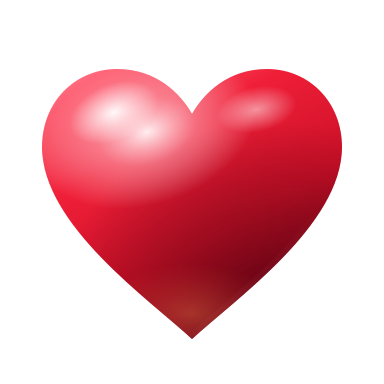
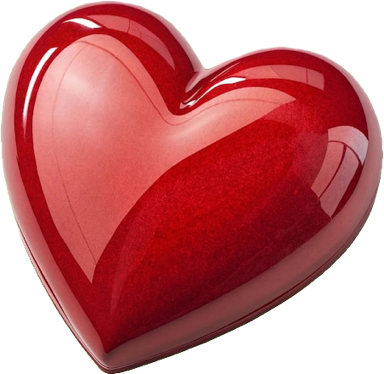
A proper heart for the Fancy Pants Favorites card
The drawn one was a flat vector sitting among photographs of hardware. This
reads as another object lit on the same table, which is what makes it belong
in that set rather than look like an icon that wandered in.

Resized to 384 on its long edge to match the scale of the rest. draw_card
contain-fits anything, so this changes nothing about how it renders - it just
keeps the set uniform and takes the file from 281 KB to 215 KB.

SOURCE.md said "There is no FAVORITES.png. That shelf is not a console and has
no hardware to photograph." That is now false, and it mattered: the rest of
that file attributes the set to Evan Amos's public domain photography, and a
card outside it must not sit silently under that heading. It now says the heart
is not one of the photographs, carries no attribution requirement, and that no
rights are claimed in it.

diff --git a/res/cards/fancy/SOURCE.md b/res/cards/fancy/SOURCE.md
@@ -18,5 +18,7 @@ NES.png is an NES and not a Famicom, SNES.png a SNES, GENESIS.png a Genesis
 Model 2, PCE.png a TurboGrafx-16. They were imported under Japanese short
 codes (FC, SFC, MD) that describe the code, not the photograph.
 
-There is no FAVORITES.png. That shelf is not a console and has no hardware to
-photograph.
+FAVORITES.png is not one of these photographs, and nothing above applies to
+it. Favorites is a shelf rather than a console, so there is no hardware to
+photograph and it carries a heart instead. It was generated rather than shot,
+carries no attribution requirement, and no rights are claimed in it.
